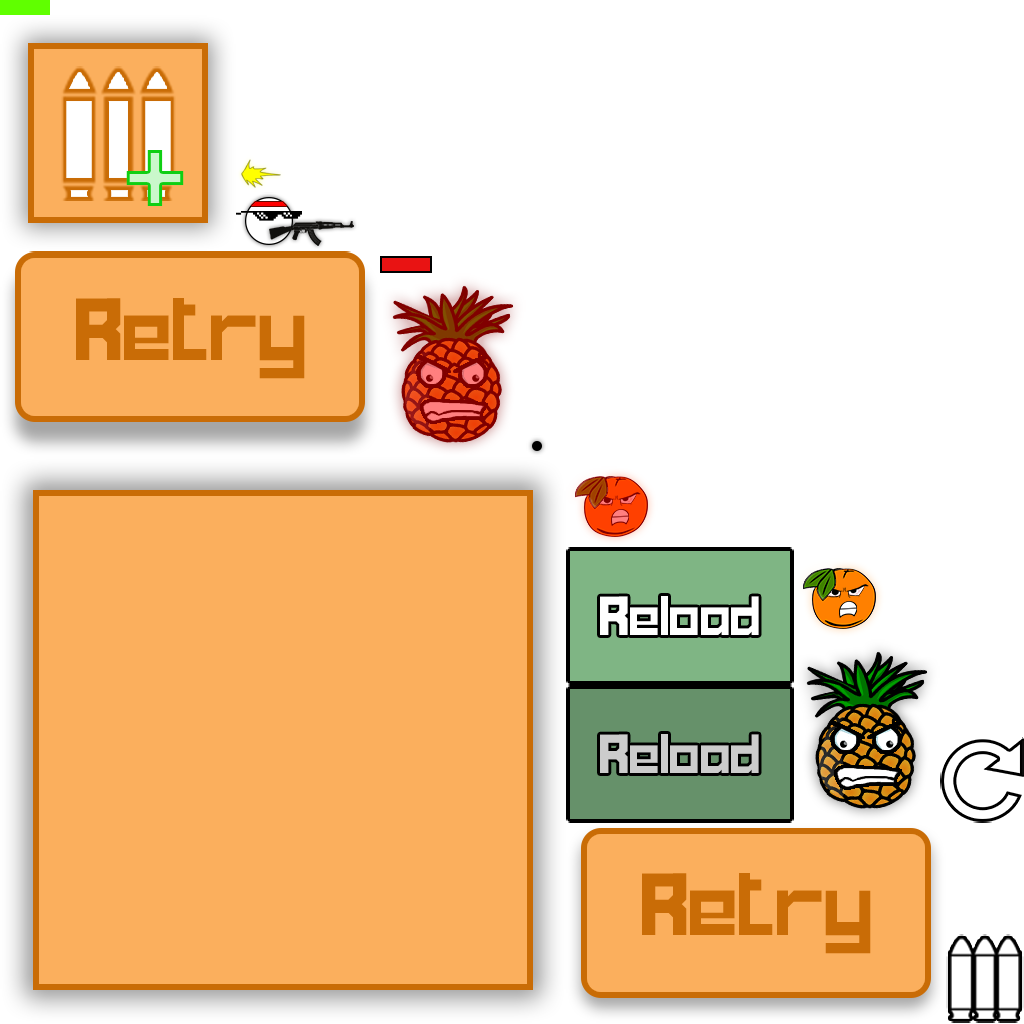
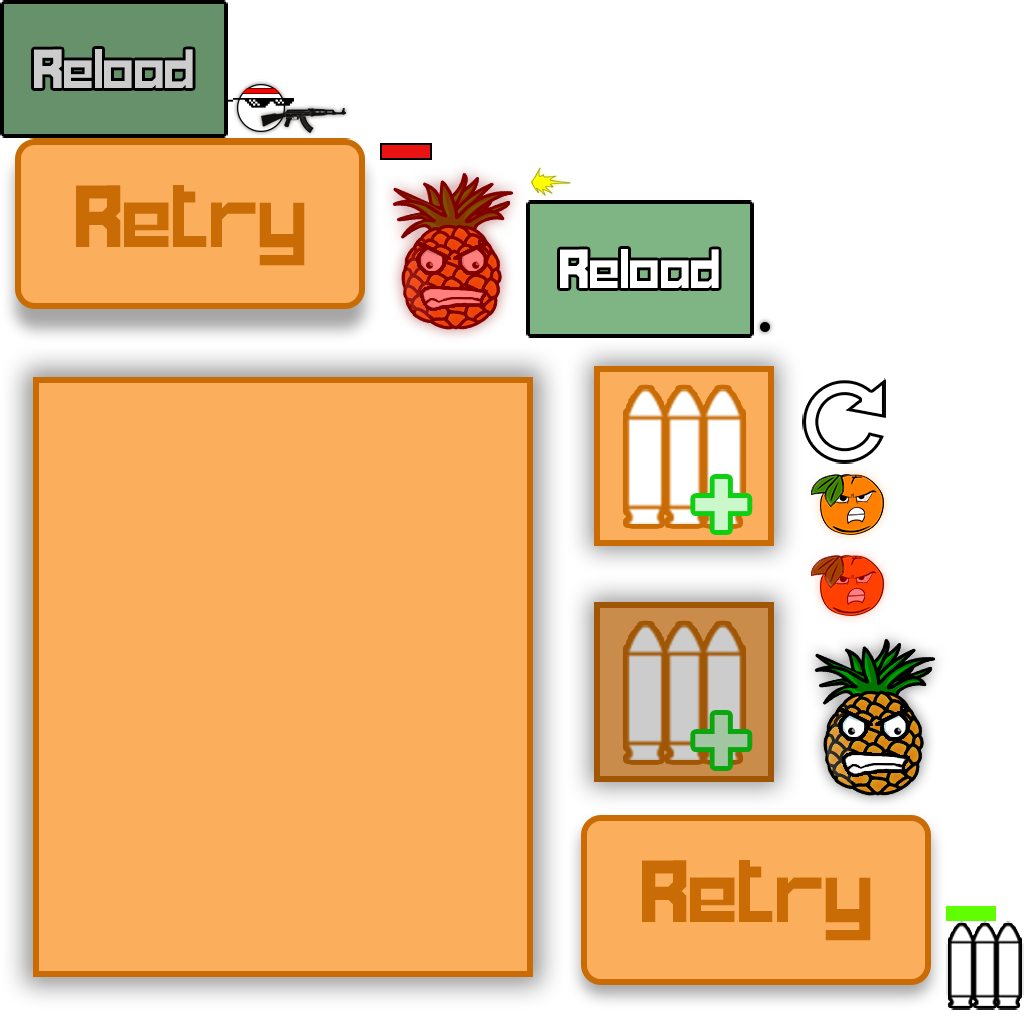
no message

diff --git a/core/src/com/nahroto/fruitdestroyer/huds/BuyHud.java b/core/src/com/nahroto/fruitdestroyer/huds/BuyHud.java
@@ -5,6 +5,8 @@ import com.badlogic.gdx.graphics.g2d.SpriteBatch;
 import com.badlogic.gdx.graphics.g2d.TextureAtlas;
 import com.badlogic.gdx.math.Interpolation;
 import com.badlogic.gdx.scenes.scene2d.ui.Image;
+import com.badlogic.gdx.scenes.scene2d.ui.ImageButton;
+import com.badlogic.gdx.scenes.scene2d.utils.TextureRegionDrawable;
 import com.badlogic.gdx.utils.Align;
 import com.badlogic.gdx.utils.viewport.Viewport;
 import com.nahroto.fruitdestroyer.Constants;
@@ -14,13 +16,15 @@ import static com.badlogic.gdx.scenes.scene2d.actions.Actions.*;
 
 public class BuyHud extends Hud
 {
-    private final float EASE_TIME = 1f;
+    private final float EASE_TIME = 0.7f;
 
     private boolean isShowed;
     private boolean isEasing;
 
     private Image overlay;
     private Image blackShader;
+
+    private ImageButton extraAmmoButton;
 
     private Runnable toggleBuying;
     private Runnable toggleEasing;
@@ -71,12 +75,28 @@ public class BuyHud extends Hud
         blackShader.addAction(alpha(0f));
 
         overlay = new Image(gameScreenAtlas.findRegion("overlay"));
+
+        extraAmmoButton = new ImageButton(new TextureRegionDrawable(gameScreenAtlas.findRegion("moreAmmoUpgrade")), new TextureRegionDrawable(gameScreenAtlas.findRegion("moreAmmoUpgrade-down")));
+
         resetPosition();
 
         actors.add(blackShader);
         actors.add(overlay);
+        actors.add(extraAmmoButton);
 
         addAllActorsToStage();
+    }
+
+    @Override
+    public void update(float delta)
+    {
+        super.update(delta);
+        updateComponents();
+    }
+
+    private void updateComponents()
+    {
+        extraAmmoButton.setPosition(overlay.getX(Align.center), overlay.getY(Align.center), Align.bottom);
     }
 
     public void toggle()
